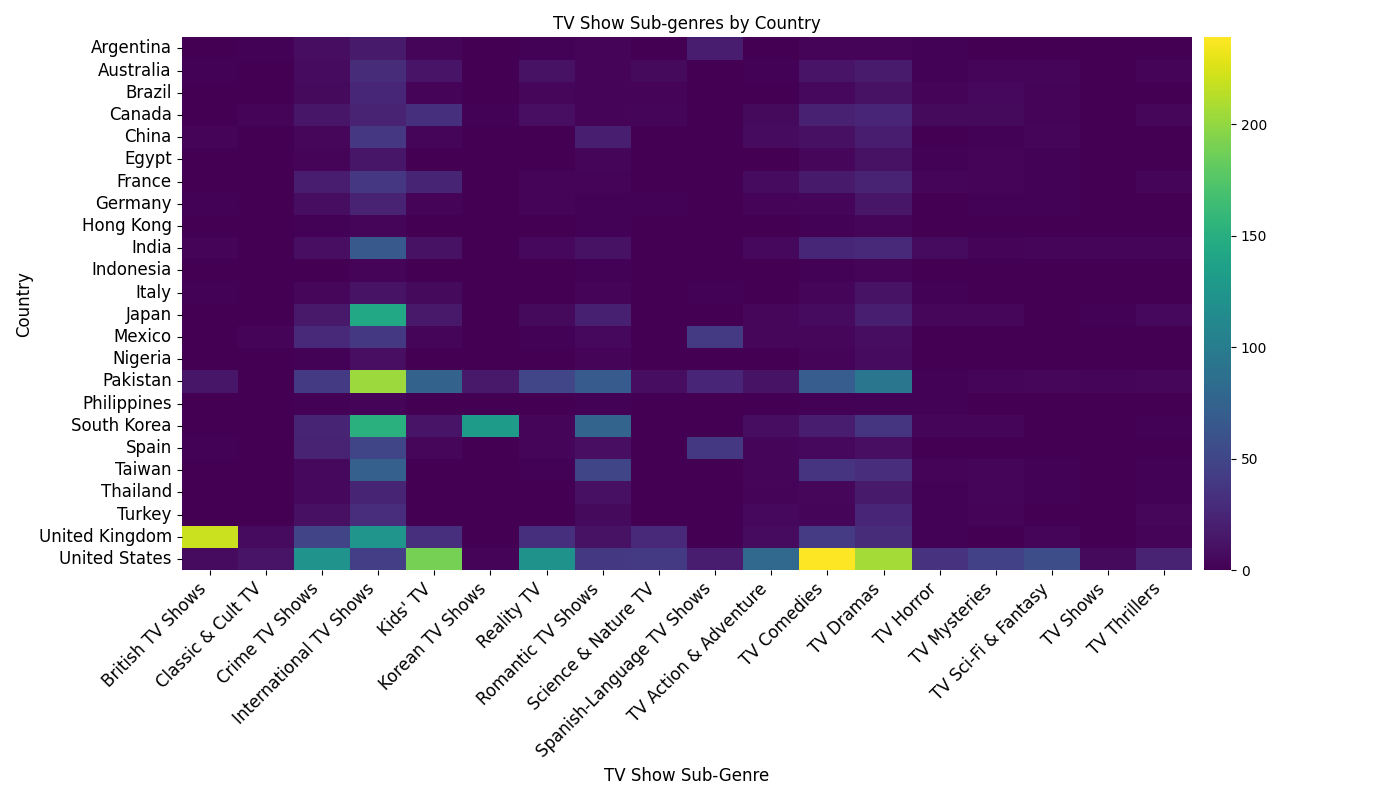
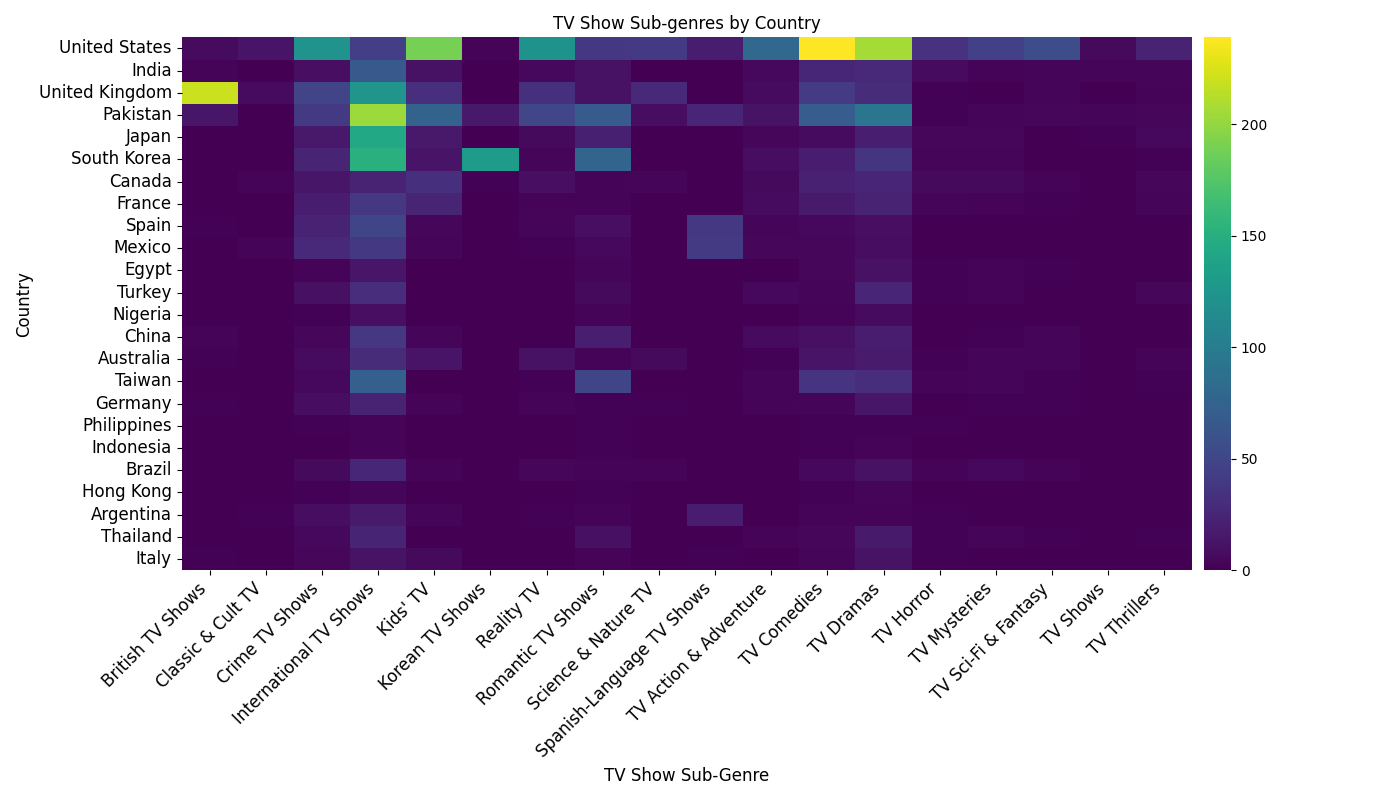
adding auxiliary graphs

diff --git a/src/analyzer.py b/src/analyzer.py
@@ -630,6 +630,17 @@ class Analyzer:
         plt.savefig("results/s2_5_genres_by_country.png")
         plt.clf() # Clear figure for next plot
         
+        plt.figure(figsize=(20, 10))
+        sns.heatmap(genre_by_country, annot=True, fmt=".0f", cmap='viridis', cbar_kws={'pad': 0.01})
+        plt.title("Genres by Country")
+        plt.xlabel("Genre", fontsize=12)
+        plt.ylabel("Country", fontsize=12)
+        plt.xticks(rotation=45, ha='right', fontsize=12)
+        plt.yticks(fontsize=12)
+        plt.tight_layout()
+        plt.savefig("results/s2_5_aux.png")
+        plt.clf() # Clear figure for next plot
+
         # -----------------------------
         # Plot 6: Genre Groups by Country Heatmap
         # -----------------------------
@@ -653,6 +664,17 @@ class Analyzer:
         plt.savefig("results/s2_6_genre_groups_by_country.png")
         plt.clf() # Clear figure for next plot
 
+        plt.figure(figsize=(14, 8))
+        sns.heatmap(genre_group_by_country, annot=True, fmt=".2f", cmap='viridis', cbar_kws={'pad': 0.01})
+        plt.title("Genre Groups by Country")
+        plt.xlabel("Genre Group", fontsize=12)
+        plt.ylabel("Country", fontsize=12)
+        plt.xticks(rotation=45, ha='right', fontsize=12)
+        plt.yticks(fontsize=12)
+        plt.tight_layout()
+        plt.savefig("results/s2_6_aux.png")
+        plt.clf() # Clear figure for next plot
+
         # -----------------------------
         # Plot 7: TV Show Sub-Genre by Country Heatmap
         # -----------------------------
@@ -662,6 +684,9 @@ class Analyzer:
         # Count (Genre, Country) pairs
         tv_show_subgenre_by_country = pd.crosstab(df_tv_show['country'], df_tv_show['Genre'])
         
+        ordered_index = [country for country in ordered_index if country in tv_show_subgenre_by_country.index]
+        tv_show_subgenre_by_country = tv_show_subgenre_by_country.loc[ordered_index]
+
         plt.figure(figsize=(14, 8))
         sns.heatmap(tv_show_subgenre_by_country, annot=False, cmap='viridis', cbar_kws={'pad': 0.01})
         plt.title('TV Show Sub-genres by Country')
@@ -671,6 +696,17 @@ class Analyzer:
         plt.yticks(fontsize=12)
         plt.tight_layout()
         plt.savefig("results/s2_7_tv_show_subgenres_by_country.png")
+        plt.clf() # Clear figure for next plot
+
+        plt.figure(figsize=(14, 8))
+        sns.heatmap(tv_show_subgenre_by_country, annot=True, fmt=".2f", cmap='viridis', cbar_kws={'pad': 0.01})
+        plt.title('TV Show Sub-genres by Country')
+        plt.xlabel('TV Show Sub-Genre', fontsize=12)
+        plt.ylabel('Country', fontsize=12)
+        plt.xticks(rotation=45, ha='right', fontsize=12)
+        plt.yticks(fontsize=12)
+        plt.tight_layout()
+        plt.savefig("results/s2_7_aux.png")
         plt.clf() # Clear figure for next plot
         
     def sub2(self, df):
